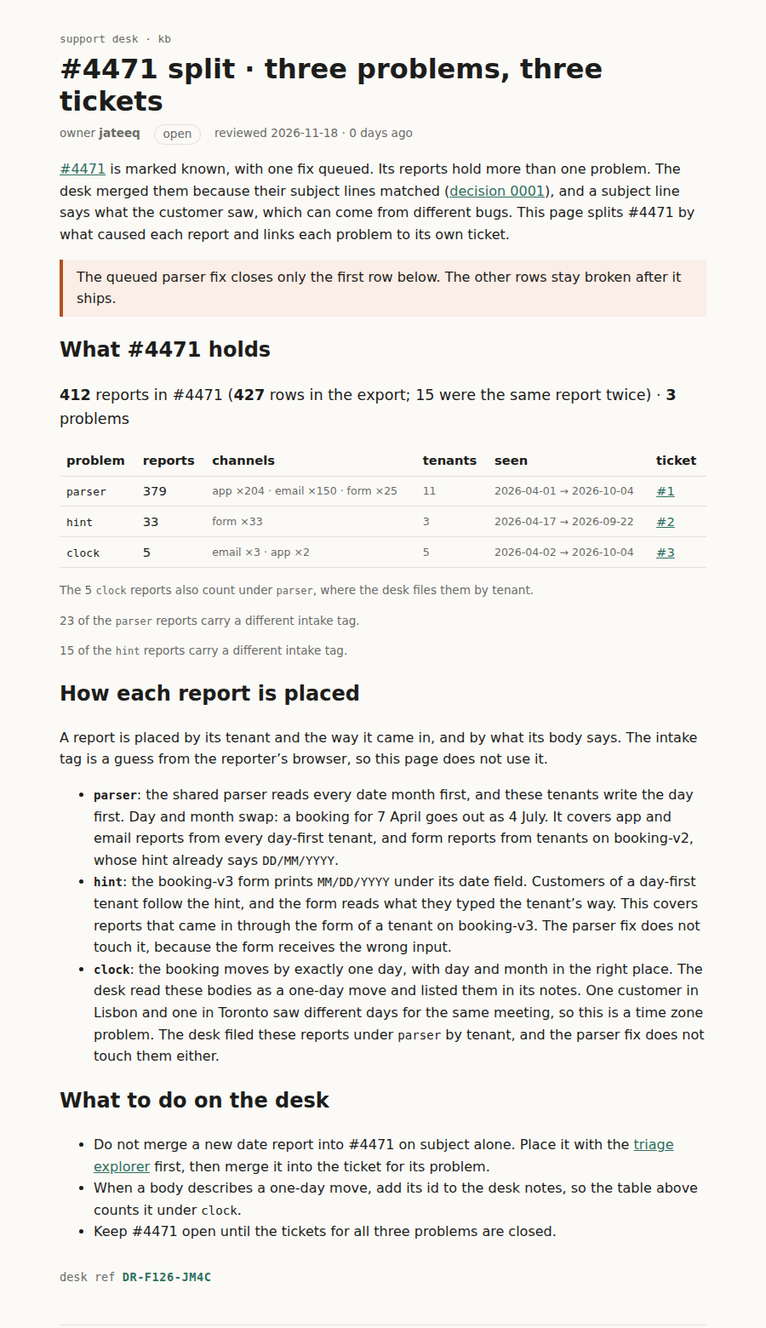
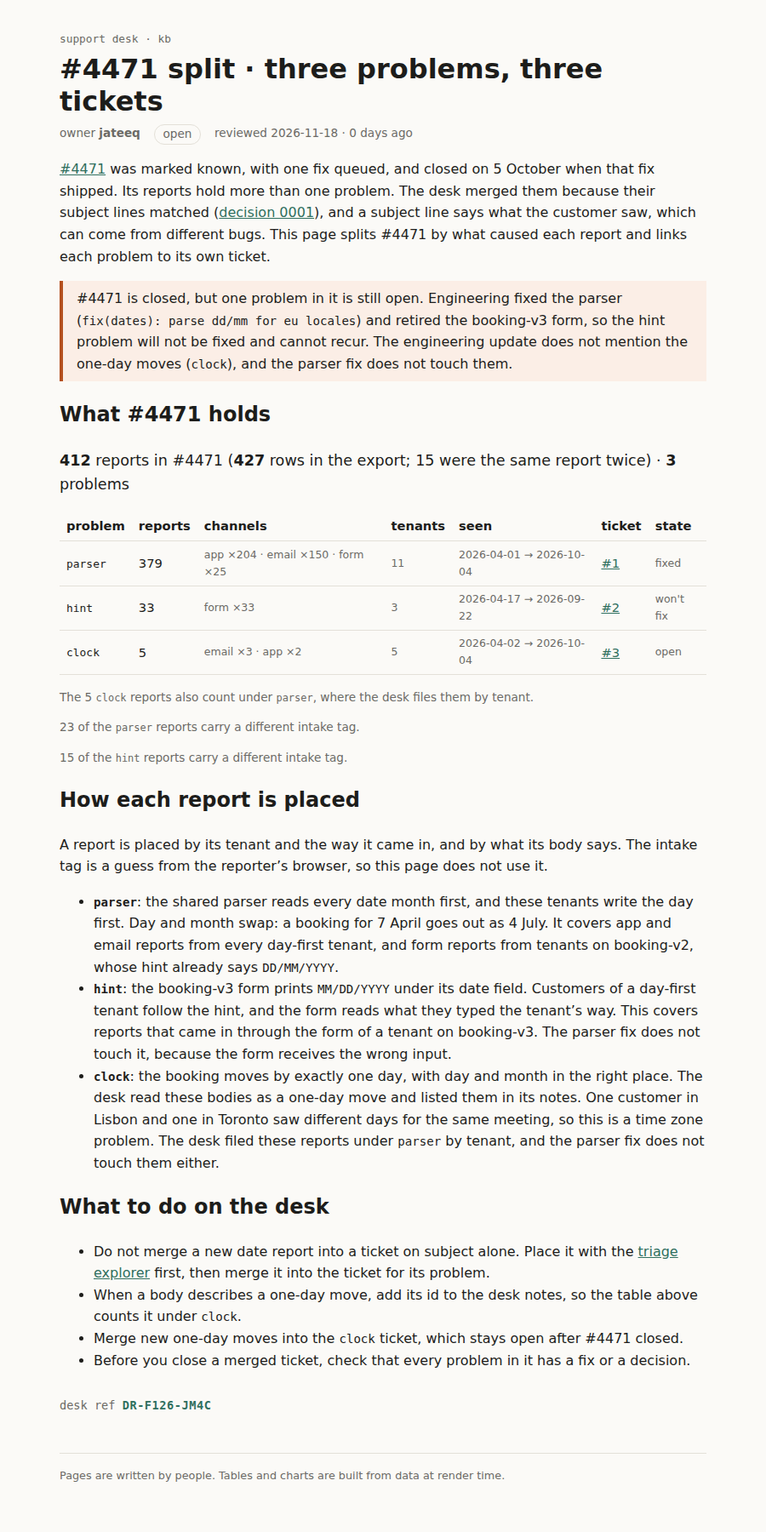
kb: record #4471 closure on the split page
Engineering closed #4471 on 05 Oct: parser fixed, booking-v3 retired
(hint won't fix). The page shows each ticket's state; clock (#3)
stays open because neither change touches one-day moves.

Changed region(s): [[0.0622, 0.0, 0.9333, 0.9846], [0.8711, 0.2154, 0.9022, 0.2462]]

diff --git a/build/kb/incidents/4471-split.html b/build/kb/incidents/4471-split.html
@@ -9,11 +9,11 @@
 		<link href="../../_app/immutable/chunks/D2uKd6CO.js" rel="modulepreload">
 		<link href="../../_app/immutable/chunks/DqobLIMO.js" rel="modulepreload">
 		<link href="../../_app/immutable/chunks/D3h3_HI9.js" rel="modulepreload">
-		<link href="../../_app/immutable/entry/app.BdO2tR1S.js" rel="modulepreload">
+		<link href="../../_app/immutable/entry/app.tLeF7Ukk.js" rel="modulepreload">
 		<link href="../../_app/immutable/nodes/0.C1T5FrNR.js" rel="modulepreload">
 		<link href="../../_app/immutable/chunks/DK3Fl9T5.js" rel="modulepreload">
-		<link href="../../_app/immutable/nodes/5.CoxZs1QO.js" rel="modulepreload">
-		<link href="../../_app/immutable/chunks/DiKSyrhr.js" rel="modulepreload">
+		<link href="../../_app/immutable/nodes/5.ntM49AF6.js" rel="modulepreload">
+		<link href="../../_app/immutable/chunks/B06xrp83.js" rel="modulepreload">
 		<link href="../../_app/immutable/chunks/lbOM6Kvd.js" rel="modulepreload">
 		<link href="../../_app/immutable/chunks/CVBzP17p.js" rel="modulepreload">
 		<link href="../../_app/immutable/chunks/WPahp0Ok.js" rel="modulepreload">
@@ -23,11 +23,14 @@
 		<link href="../../_app/immutable/assets/_page.-ZyW0LFx.css" rel="stylesheet">
   </head>
   <body data-sveltekit-preload-data="hover">
-    <div style="display: contents"><!--[--><!--[--><!--[0--><!--[--><!--[--><!--[-1--><!--[--><div class="kb svelte-e2jw2j"><header><a class="crumb svelte-e2jw2j" href="/kb">support desk · kb</a> <h1 class="svelte-e2jw2j">#4471 split · three problems, three tickets</h1> <p class="meta svelte-e2jw2j"><span>owner <b>jateeq</b></span> <span class="status open svelte-e2jw2j">open</span> <span class="svelte-e2jw2j">reviewed 2026-11-18 · 0 days ago</span></p></header> <!--[-1--><!--]--> <main><p><a href="/kb/incidents/4471">#4471</a> is marked known, with one fix queued. Its reports hold more than one
-problem. The desk merged them because their subject lines matched
+    <div style="display: contents"><!--[--><!--[--><!--[0--><!--[--><!--[--><!--[-1--><!--[--><div class="kb svelte-e2jw2j"><header><a class="crumb svelte-e2jw2j" href="/kb">support desk · kb</a> <h1 class="svelte-e2jw2j">#4471 split · three problems, three tickets</h1> <p class="meta svelte-e2jw2j"><span>owner <b>jateeq</b></span> <span class="status open svelte-e2jw2j">open</span> <span class="svelte-e2jw2j">reviewed 2026-11-18 · 0 days ago</span></p></header> <!--[-1--><!--]--> <main><p><a href="/kb/incidents/4471">#4471</a> was marked known, with one fix queued, and closed on 5 October when
+that fix shipped. Its reports hold more than one problem. The desk merged them because their subject lines matched
 (<a href="/kb/decisions/0001-dedupe-by-subject">decision 0001</a>), and a subject line says what the customer
 saw, which can come from different bugs. This page splits #4471 by what caused each report and
-links each problem to its own ticket.</p> <aside class="warn svelte-17bri61"><!---->The queued parser fix closes only the first row below. The other rows stay broken after it ships.<!----></aside><!----> <h2>What #4471 holds</h2> <p class="sum svelte-xskqqx"><strong>412</strong> reports in #4471 <!--[0-->(<strong>427</strong> rows in the export; 15 were the same report twice)<!--]--> · <strong>3</strong> problems</p> <table><thead><tr><th>problem</th><th>reports</th><th>channels</th><th>tenants</th><th>seen</th><th>ticket</th></tr></thead><tbody><!--[--><tr class="svelte-xskqqx"><td class="svelte-xskqqx"><code>parser</code></td><td class="svelte-xskqqx">379</td><td class="small svelte-xskqqx">app ×204 · email ×150 · form ×25</td><td class="small svelte-xskqqx" title="alder.physio, copper.studio, harbour.dental, kettle.books, lantern.row, long.table, morrow.tax, nine.lanterns, pale.harbour, ridge.clinic, stone.and.sons">11</td><td class="small svelte-xskqqx">2026-04-01 → 2026-10-04</td><td class="svelte-xskqqx"><!--[0--><a href="https://github.com/jateeq/support-kb-4471/issues/1">#1</a><!--]--></td></tr><tr class="svelte-xskqqx"><td class="svelte-xskqqx"><code>hint</code></td><td class="svelte-xskqqx">33</td><td class="small svelte-xskqqx">form ×33</td><td class="small svelte-xskqqx" title="alder.physio, copper.studio, pale.harbour">3</td><td class="small svelte-xskqqx">2026-04-17 → 2026-09-22</td><td class="svelte-xskqqx"><!--[0--><a href="https://github.com/jateeq/support-kb-4471/issues/2">#2</a><!--]--></td></tr><tr class="svelte-xskqqx"><td class="svelte-xskqqx"><code>clock</code></td><td class="svelte-xskqqx">5</td><td class="small svelte-xskqqx">email ×3 · app ×2</td><td class="small svelte-xskqqx" title="alder.physio, kettle.books, lantern.row, nine.lanterns, pale.harbour">5</td><td class="small svelte-xskqqx">2026-04-02 → 2026-10-04</td><td class="svelte-xskqqx"><!--[0--><a href="https://github.com/jateeq/support-kb-4471/issues/3">#3</a><!--]--></td></tr><!--]--></tbody></table> <!--[--><!--[--><!--]--><!--[--><!--]--><!--[--><p class="note svelte-xskqqx">The 5 <code>clock</code> reports also count under <code>parser</code>, where the desk files them by tenant.</p><!--]--><!--]--> <!--[--><!--[0--><p class="note svelte-xskqqx">23 of the <code>parser</code> reports carry a different intake tag.</p><!--]--><!--[0--><p class="note svelte-xskqqx">15 of the <code>hint</code> reports carry a different intake tag.</p><!--]--><!--[-1--><!--]--><!--]--><!----> <h2>How each report is placed</h2> <p>A report is placed by its tenant and the way it came in, and by what its body says. The intake
+links each problem to its own ticket.</p> <aside class="warn svelte-17bri61"><!---->#4471 is closed, but one problem in it is still open. Engineering fixed the parser
+(<code>fix(dates): parse dd/mm for eu locales</code>) and retired the booking-v3 form, so the hint problem
+will not be fixed and cannot recur. The engineering update does not mention the one-day moves (<code>clock</code>), and the
+parser fix does not touch them.<!----></aside><!----> <h2>What #4471 holds</h2> <p class="sum svelte-xskqqx"><strong>412</strong> reports in #4471 <!--[0-->(<strong>427</strong> rows in the export; 15 were the same report twice)<!--]--> · <strong>3</strong> problems</p> <table><thead><tr><th>problem</th><th>reports</th><th>channels</th><th>tenants</th><th>seen</th><th>ticket</th><th>state</th></tr></thead><tbody><!--[--><tr class="svelte-xskqqx"><td class="svelte-xskqqx"><code>parser</code></td><td class="svelte-xskqqx">379</td><td class="small svelte-xskqqx">app ×204 · email ×150 · form ×25</td><td class="small svelte-xskqqx" title="alder.physio, copper.studio, harbour.dental, kettle.books, lantern.row, long.table, morrow.tax, nine.lanterns, pale.harbour, ridge.clinic, stone.and.sons">11</td><td class="small svelte-xskqqx">2026-04-01 → 2026-10-04</td><td class="svelte-xskqqx"><!--[0--><a href="https://github.com/jateeq/support-kb-4471/issues/1">#1</a><!--]--></td><td class="small svelte-xskqqx">fixed</td></tr><tr class="svelte-xskqqx"><td class="svelte-xskqqx"><code>hint</code></td><td class="svelte-xskqqx">33</td><td class="small svelte-xskqqx">form ×33</td><td class="small svelte-xskqqx" title="alder.physio, copper.studio, pale.harbour">3</td><td class="small svelte-xskqqx">2026-04-17 → 2026-09-22</td><td class="svelte-xskqqx"><!--[0--><a href="https://github.com/jateeq/support-kb-4471/issues/2">#2</a><!--]--></td><td class="small svelte-xskqqx">won't fix</td></tr><tr class="svelte-xskqqx"><td class="svelte-xskqqx"><code>clock</code></td><td class="svelte-xskqqx">5</td><td class="small svelte-xskqqx">email ×3 · app ×2</td><td class="small svelte-xskqqx" title="alder.physio, kettle.books, lantern.row, nine.lanterns, pale.harbour">5</td><td class="small svelte-xskqqx">2026-04-02 → 2026-10-04</td><td class="svelte-xskqqx"><!--[0--><a href="https://github.com/jateeq/support-kb-4471/issues/3">#3</a><!--]--></td><td class="small svelte-xskqqx">open</td></tr><!--]--></tbody></table> <!--[--><!--[--><!--]--><!--[--><!--]--><!--[--><p class="note svelte-xskqqx">The 5 <code>clock</code> reports also count under <code>parser</code>, where the desk files them by tenant.</p><!--]--><!--]--> <!--[--><!--[0--><p class="note svelte-xskqqx">23 of the <code>parser</code> reports carry a different intake tag.</p><!--]--><!--[0--><p class="note svelte-xskqqx">15 of the <code>hint</code> reports carry a different intake tag.</p><!--]--><!--[-1--><!--]--><!--]--><!----> <h2>How each report is placed</h2> <p>A report is placed by its tenant and the way it came in, and by what its body says. The intake
 tag is a guess from the reporter’s browser, so this page does not use it.</p> <ul><li><strong><code>parser</code></strong>: the shared parser reads every date month first, and these tenants write the day
 first. Day and month swap: a booking for 7 April goes out as 4 July. It covers app and email
 reports from every day-first tenant, and form reports from tenants on booking-v2, whose hint
@@ -37,21 +40,21 @@ covers reports that came in through the form of a tenant on booking-v3. The pars
 touch it, because the form receives the wrong input.</li> <li><strong><code>clock</code></strong>: the booking moves by exactly one day, with day and month in the right place. The
 desk read these bodies as a one-day move and listed them in its notes. One customer in Lisbon
 and one in Toronto saw different days for the same meeting, so this is a time zone problem. The
-desk filed these reports under <code>parser</code> by tenant, and the parser fix does not touch them either.</li></ul> <h2>What to do on the desk</h2> <ul><li>Do not merge a new date report into #4471 on subject alone. Place it with the <a href="/kb/triage/dedupe">triage explorer</a> first, then merge it into the ticket for its problem.</li> <li>When a body describes a one-day move, add its id to the desk notes, so the table above counts it
-under <code>clock</code>.</li> <li>Keep #4471 open until the tickets for all three problems are closed.</li></ul> <!--[0--><p class="stamp svelte-1280m42">desk ref <b class="svelte-1280m42">DR-F126-JM4C</b></p><!--]--><!----><!----></main> <footer class="svelte-e2jw2j">Pages are written by people. Tables and charts are built from data at render time.</footer></div><!--]--><!--]--><!--]--><!----><!--]--><!--]--><!--]--><!----> <!--[-1--><!--]--><!--]-->
+desk filed these reports under <code>parser</code> by tenant, and the parser fix does not touch them either.</li></ul> <h2>What to do on the desk</h2> <ul><li>Do not merge a new date report into a ticket on subject alone. Place it with the <a href="/kb/triage/dedupe">triage explorer</a> first, then merge it into the ticket for its problem.</li> <li>When a body describes a one-day move, add its id to the desk notes, so the table above counts it
+under <code>clock</code>.</li> <li>Merge new one-day moves into the <code>clock</code> ticket, which stays open after #4471 closed.</li> <li>Before you close a merged ticket, check that every problem in it has a fix or a decision.</li></ul> <!--[0--><p class="stamp svelte-1280m42">desk ref <b class="svelte-1280m42">DR-F126-JM4C</b></p><!--]--><!----><!----></main> <footer class="svelte-e2jw2j">Pages are written by people. Tables and charts are built from data at render time.</footer></div><!--]--><!--]--><!--]--><!----><!--]--><!--]--><!--]--><!----> <!--[-1--><!--]--><!--]-->
 			
 			<script>
 				{
-					__sveltekit_18xwxmj = {
+					__sveltekit_j6ayf0 = {
 						base: new URL("../..", location).pathname.slice(0, -1),
-						version: "1795033471336"
+						version: "1795033544273"
 					};
 
 					const element = document.currentScript.parentElement;
 
 					import("../../_app/immutable/entry/start.IGbkpGjp.js").then(async (kit) => {
-						kit.init(__sveltekit_18xwxmj);
-						const app = await import("../../_app/immutable/entry/app.BdO2tR1S.js");
+						kit.init(__sveltekit_j6ayf0);
+						const app = await import("../../_app/immutable/entry/app.tLeF7Ukk.js");
 						kit.start(app, element, {
 							node_ids: [0, 5],
 							data: [null,null],

diff --git a/rendered/4471-split.html b/rendered/4471-split.html
@@ -9,11 +9,11 @@
 		<link href="../../_app/immutable/chunks/D2uKd6CO.js" rel="modulepreload">
 		<link href="../../_app/immutable/chunks/DqobLIMO.js" rel="modulepreload">
 		<link href="../../_app/immutable/chunks/D3h3_HI9.js" rel="modulepreload">
-		<link href="../../_app/immutable/entry/app.BdO2tR1S.js" rel="modulepreload">
+		<link href="../../_app/immutable/entry/app.tLeF7Ukk.js" rel="modulepreload">
 		<link href="../../_app/immutable/nodes/0.C1T5FrNR.js" rel="modulepreload">
 		<link href="../../_app/immutable/chunks/DK3Fl9T5.js" rel="modulepreload">
-		<link href="../../_app/immutable/nodes/5.CoxZs1QO.js" rel="modulepreload">
-		<link href="../../_app/immutable/chunks/DiKSyrhr.js" rel="modulepreload">
+		<link href="../../_app/immutable/nodes/5.ntM49AF6.js" rel="modulepreload">
+		<link href="../../_app/immutable/chunks/B06xrp83.js" rel="modulepreload">
 		<link href="../../_app/immutable/chunks/lbOM6Kvd.js" rel="modulepreload">
 		<link href="../../_app/immutable/chunks/CVBzP17p.js" rel="modulepreload">
 		<link href="../../_app/immutable/chunks/WPahp0Ok.js" rel="modulepreload">
@@ -23,11 +23,14 @@
 		<link href="../../_app/immutable/assets/_page.-ZyW0LFx.css" rel="stylesheet">
   </head>
   <body data-sveltekit-preload-data="hover">
-    <div style="display: contents"><!--[--><!--[--><!--[0--><!--[--><!--[--><!--[-1--><!--[--><div class="kb svelte-e2jw2j"><header><a class="crumb svelte-e2jw2j" href="/kb">support desk · kb</a> <h1 class="svelte-e2jw2j">#4471 split · three problems, three tickets</h1> <p class="meta svelte-e2jw2j"><span>owner <b>jateeq</b></span> <span class="status open svelte-e2jw2j">open</span> <span class="svelte-e2jw2j">reviewed 2026-11-18 · 0 days ago</span></p></header> <!--[-1--><!--]--> <main><p><a href="/kb/incidents/4471">#4471</a> is marked known, with one fix queued. Its reports hold more than one
-problem. The desk merged them because their subject lines matched
+    <div style="display: contents"><!--[--><!--[--><!--[0--><!--[--><!--[--><!--[-1--><!--[--><div class="kb svelte-e2jw2j"><header><a class="crumb svelte-e2jw2j" href="/kb">support desk · kb</a> <h1 class="svelte-e2jw2j">#4471 split · three problems, three tickets</h1> <p class="meta svelte-e2jw2j"><span>owner <b>jateeq</b></span> <span class="status open svelte-e2jw2j">open</span> <span class="svelte-e2jw2j">reviewed 2026-11-18 · 0 days ago</span></p></header> <!--[-1--><!--]--> <main><p><a href="/kb/incidents/4471">#4471</a> was marked known, with one fix queued, and closed on 5 October when
+that fix shipped. Its reports hold more than one problem. The desk merged them because their subject lines matched
 (<a href="/kb/decisions/0001-dedupe-by-subject">decision 0001</a>), and a subject line says what the customer
 saw, which can come from different bugs. This page splits #4471 by what caused each report and
-links each problem to its own ticket.</p> <aside class="warn svelte-17bri61"><!---->The queued parser fix closes only the first row below. The other rows stay broken after it ships.<!----></aside><!----> <h2>What #4471 holds</h2> <p class="sum svelte-xskqqx"><strong>412</strong> reports in #4471 <!--[0-->(<strong>427</strong> rows in the export; 15 were the same report twice)<!--]--> · <strong>3</strong> problems</p> <table><thead><tr><th>problem</th><th>reports</th><th>channels</th><th>tenants</th><th>seen</th><th>ticket</th></tr></thead><tbody><!--[--><tr class="svelte-xskqqx"><td class="svelte-xskqqx"><code>parser</code></td><td class="svelte-xskqqx">379</td><td class="small svelte-xskqqx">app ×204 · email ×150 · form ×25</td><td class="small svelte-xskqqx" title="alder.physio, copper.studio, harbour.dental, kettle.books, lantern.row, long.table, morrow.tax, nine.lanterns, pale.harbour, ridge.clinic, stone.and.sons">11</td><td class="small svelte-xskqqx">2026-04-01 → 2026-10-04</td><td class="svelte-xskqqx"><!--[0--><a href="https://github.com/jateeq/support-kb-4471/issues/1">#1</a><!--]--></td></tr><tr class="svelte-xskqqx"><td class="svelte-xskqqx"><code>hint</code></td><td class="svelte-xskqqx">33</td><td class="small svelte-xskqqx">form ×33</td><td class="small svelte-xskqqx" title="alder.physio, copper.studio, pale.harbour">3</td><td class="small svelte-xskqqx">2026-04-17 → 2026-09-22</td><td class="svelte-xskqqx"><!--[0--><a href="https://github.com/jateeq/support-kb-4471/issues/2">#2</a><!--]--></td></tr><tr class="svelte-xskqqx"><td class="svelte-xskqqx"><code>clock</code></td><td class="svelte-xskqqx">5</td><td class="small svelte-xskqqx">email ×3 · app ×2</td><td class="small svelte-xskqqx" title="alder.physio, kettle.books, lantern.row, nine.lanterns, pale.harbour">5</td><td class="small svelte-xskqqx">2026-04-02 → 2026-10-04</td><td class="svelte-xskqqx"><!--[0--><a href="https://github.com/jateeq/support-kb-4471/issues/3">#3</a><!--]--></td></tr><!--]--></tbody></table> <!--[--><!--[--><!--]--><!--[--><!--]--><!--[--><p class="note svelte-xskqqx">The 5 <code>clock</code> reports also count under <code>parser</code>, where the desk files them by tenant.</p><!--]--><!--]--> <!--[--><!--[0--><p class="note svelte-xskqqx">23 of the <code>parser</code> reports carry a different intake tag.</p><!--]--><!--[0--><p class="note svelte-xskqqx">15 of the <code>hint</code> reports carry a different intake tag.</p><!--]--><!--[-1--><!--]--><!--]--><!----> <h2>How each report is placed</h2> <p>A report is placed by its tenant and the way it came in, and by what its body says. The intake
+links each problem to its own ticket.</p> <aside class="warn svelte-17bri61"><!---->#4471 is closed, but one problem in it is still open. Engineering fixed the parser
+(<code>fix(dates): parse dd/mm for eu locales</code>) and retired the booking-v3 form, so the hint problem
+will not be fixed and cannot recur. The engineering update does not mention the one-day moves (<code>clock</code>), and the
+parser fix does not touch them.<!----></aside><!----> <h2>What #4471 holds</h2> <p class="sum svelte-xskqqx"><strong>412</strong> reports in #4471 <!--[0-->(<strong>427</strong> rows in the export; 15 were the same report twice)<!--]--> · <strong>3</strong> problems</p> <table><thead><tr><th>problem</th><th>reports</th><th>channels</th><th>tenants</th><th>seen</th><th>ticket</th><th>state</th></tr></thead><tbody><!--[--><tr class="svelte-xskqqx"><td class="svelte-xskqqx"><code>parser</code></td><td class="svelte-xskqqx">379</td><td class="small svelte-xskqqx">app ×204 · email ×150 · form ×25</td><td class="small svelte-xskqqx" title="alder.physio, copper.studio, harbour.dental, kettle.books, lantern.row, long.table, morrow.tax, nine.lanterns, pale.harbour, ridge.clinic, stone.and.sons">11</td><td class="small svelte-xskqqx">2026-04-01 → 2026-10-04</td><td class="svelte-xskqqx"><!--[0--><a href="https://github.com/jateeq/support-kb-4471/issues/1">#1</a><!--]--></td><td class="small svelte-xskqqx">fixed</td></tr><tr class="svelte-xskqqx"><td class="svelte-xskqqx"><code>hint</code></td><td class="svelte-xskqqx">33</td><td class="small svelte-xskqqx">form ×33</td><td class="small svelte-xskqqx" title="alder.physio, copper.studio, pale.harbour">3</td><td class="small svelte-xskqqx">2026-04-17 → 2026-09-22</td><td class="svelte-xskqqx"><!--[0--><a href="https://github.com/jateeq/support-kb-4471/issues/2">#2</a><!--]--></td><td class="small svelte-xskqqx">won't fix</td></tr><tr class="svelte-xskqqx"><td class="svelte-xskqqx"><code>clock</code></td><td class="svelte-xskqqx">5</td><td class="small svelte-xskqqx">email ×3 · app ×2</td><td class="small svelte-xskqqx" title="alder.physio, kettle.books, lantern.row, nine.lanterns, pale.harbour">5</td><td class="small svelte-xskqqx">2026-04-02 → 2026-10-04</td><td class="svelte-xskqqx"><!--[0--><a href="https://github.com/jateeq/support-kb-4471/issues/3">#3</a><!--]--></td><td class="small svelte-xskqqx">open</td></tr><!--]--></tbody></table> <!--[--><!--[--><!--]--><!--[--><!--]--><!--[--><p class="note svelte-xskqqx">The 5 <code>clock</code> reports also count under <code>parser</code>, where the desk files them by tenant.</p><!--]--><!--]--> <!--[--><!--[0--><p class="note svelte-xskqqx">23 of the <code>parser</code> reports carry a different intake tag.</p><!--]--><!--[0--><p class="note svelte-xskqqx">15 of the <code>hint</code> reports carry a different intake tag.</p><!--]--><!--[-1--><!--]--><!--]--><!----> <h2>How each report is placed</h2> <p>A report is placed by its tenant and the way it came in, and by what its body says. The intake
 tag is a guess from the reporter’s browser, so this page does not use it.</p> <ul><li><strong><code>parser</code></strong>: the shared parser reads every date month first, and these tenants write the day
 first. Day and month swap: a booking for 7 April goes out as 4 July. It covers app and email
 reports from every day-first tenant, and form reports from tenants on booking-v2, whose hint
@@ -37,21 +40,21 @@ covers reports that came in through the form of a tenant on booking-v3. The pars
 touch it, because the form receives the wrong input.</li> <li><strong><code>clock</code></strong>: the booking moves by exactly one day, with day and month in the right place. The
 desk read these bodies as a one-day move and listed them in its notes. One customer in Lisbon
 and one in Toronto saw different days for the same meeting, so this is a time zone problem. The
-desk filed these reports under <code>parser</code> by tenant, and the parser fix does not touch them either.</li></ul> <h2>What to do on the desk</h2> <ul><li>Do not merge a new date report into #4471 on subject alone. Place it with the <a href="/kb/triage/dedupe">triage explorer</a> first, then merge it into the ticket for its problem.</li> <li>When a body describes a one-day move, add its id to the desk notes, so the table above counts it
-under <code>clock</code>.</li> <li>Keep #4471 open until the tickets for all three problems are closed.</li></ul> <!--[0--><p class="stamp svelte-1280m42">desk ref <b class="svelte-1280m42">DR-F126-JM4C</b></p><!--]--><!----><!----></main> <footer class="svelte-e2jw2j">Pages are written by people. Tables and charts are built from data at render time.</footer></div><!--]--><!--]--><!--]--><!----><!--]--><!--]--><!--]--><!----> <!--[-1--><!--]--><!--]-->
+desk filed these reports under <code>parser</code> by tenant, and the parser fix does not touch them either.</li></ul> <h2>What to do on the desk</h2> <ul><li>Do not merge a new date report into a ticket on subject alone. Place it with the <a href="/kb/triage/dedupe">triage explorer</a> first, then merge it into the ticket for its problem.</li> <li>When a body describes a one-day move, add its id to the desk notes, so the table above counts it
+under <code>clock</code>.</li> <li>Merge new one-day moves into the <code>clock</code> ticket, which stays open after #4471 closed.</li> <li>Before you close a merged ticket, check that every problem in it has a fix or a decision.</li></ul> <!--[0--><p class="stamp svelte-1280m42">desk ref <b class="svelte-1280m42">DR-F126-JM4C</b></p><!--]--><!----><!----></main> <footer class="svelte-e2jw2j">Pages are written by people. Tables and charts are built from data at render time.</footer></div><!--]--><!--]--><!--]--><!----><!--]--><!--]--><!--]--><!----> <!--[-1--><!--]--><!--]-->
 			
 			<script>
 				{
-					__sveltekit_18xwxmj = {
+					__sveltekit_j6ayf0 = {
 						base: new URL("../..", location).pathname.slice(0, -1),
-						version: "1795033471336"
+						version: "1795033544273"
 					};
 
 					const element = document.currentScript.parentElement;
 
 					import("../../_app/immutable/entry/start.IGbkpGjp.js").then(async (kit) => {
-						kit.init(__sveltekit_18xwxmj);
-						const app = await import("../../_app/immutable/entry/app.BdO2tR1S.js");
+						kit.init(__sveltekit_j6ayf0);
+						const app = await import("../../_app/immutable/entry/app.tLeF7Ukk.js");
 						kit.start(app, element, {
 							node_ids: [0, 5],
 							data: [null,null],

diff --git a/build/_app/immutable/chunks/B06xrp83.js b/build/_app/immutable/chunks/B06xrp83.js
@@ -1,0 +1,19 @@
+import{t as e}from"./DK3Fl9T5.js";import{E as t,F as n,H as r,I as i,K as a,L as o,N as s,O as c,R as l,S as u,T as d,U as f,W as p,Y as m,_ as h,c as g,d as _,h as v,k as y,q as b,r as x,t as S,w as C}from"./DqobLIMO.js";import{t as w}from"./lbOM6Kvd.js";import{n as T,t as E}from"./CVBzP17p.js";import{i as D,l as O,r as k,t as A}from"./WPahp0Ok.js";var j=[`parser`,`hint`,`clock`];function M(e,t,n,r){let i=e.filter(e=>e.mergedInto===r),a=O(i),o=e=>D(e,t(e))??`unplaced`,s=new Map,c=(e,t)=>s.set(e,[...s.get(e)??[],t]);for(let e of a)c(o(e),e),n.includes(e.id)&&c(`clock`,e);let l=e=>e===`unplaced`?j.length:j.indexOf(e),u=[...s.entries()].map(([e,t])=>{let n=t.map(e=>e.receivedAt.slice(0,10)).sort();return{problem:e,reports:t,tenants:[...new Set(t.map(e=>e.tenant))].sort(),channels:t.reduce((e,t)=>({...e,[t.channel]:(e[t.channel]??0)+1}),{}),firstSeen:n[0],lastSeen:n[n.length-1],alsoIn:e===`clock`?t.reduce((e,t)=>({...e,[o(t)]:(e[o(t)]??0)+1}),{}):{}}}).sort((e,t)=>l(e.problem)-l(t.problem));return{rows:i.length,merged:a,groups:u}}function N(e){return e.problem===`clock`||e.problem===`unplaced`?0:e.reports.filter(t=>t.meta.intakeTag!==e.problem).length}var P=t(`(<strong> </strong> `,1),F=t(`<a> </a>`),I=t(`<tr><td class="svelte-xskqqx"><code> </code></td><td class="svelte-xskqqx"> </td><td class="small svelte-xskqqx"> </td><td class="small svelte-xskqqx"> </td><td class="small svelte-xskqqx"> </td><td class="svelte-xskqqx"><!></td><td class="small svelte-xskqqx"> </td></tr>`),L=t(`<p class="note svelte-xskqqx"> <code> </code> reports also count under <code> </code>, where the desk files them by tenant.</p>`),R=t(`<p class="note svelte-xskqqx"> <code> </code> reports carry a different intake tag.</p>`),z=t(`<p class="sum svelte-xskqqx"><strong> </strong> <!> · <strong> </strong> </p> <table><thead><tr><th>problem</th><th>reports</th><th>channels</th><th>tenants</th><th>seen</th><th>ticket</th><th>state</th></tr></thead><tbody></tbody></table> <!> <!>`,1);function B(e,t){p(t,!0);let x=r(()=>M(T,k,E.oneDayMove,t.ticket)),S=r(()=>y(x).rows-y(x).merged.length),w=r(()=>y(x).groups.filter(e=>e.problem!==`unplaced`)),D=e=>Object.entries(e).sort((e,t)=>t[1]-e[1]).map(([e,t])=>`${e} ×${t}`).join(` · `);var O=z(),A=i(O),j=n(A),B=o(j,!0),V=l(j),H=l(V),U=e=>{var t=P(),n=l(i(t)),r=o(n,!0),a=l(n);s(()=>{u(r,y(x).rows),u(a,` rows in the export; ${y(S)??``} were the same report twice)`)}),C(e,t)};h(H,e=>{y(S)&&e(U)});var W=l(H,2),G=o(W,!0),K=l(W);b(A);var q=l(A,2),J=l(n(q));v(J,21,()=>y(x).groups,e=>e.problem,(e,i)=>{let a=r(()=>y(i).problem===`unplaced`?void 0:t.issues[y(i).problem]);var d=I();let f;var p=n(d),m=n(p),v=o(m,!0);b(p);var x=l(p),S=o(x,!0),w=l(x),T=o(w,!0),E=l(w),O=o(E,!0),k=l(E),A=o(k),j=l(k),M=n(j),N=e=>{var t=F(),n=o(t,!0);s(()=>{g(t,`href`,y(a).href),u(n,y(a).label)}),C(e,t)},P=e=>{var t=c(`no ticket yet`);C(e,t)};h(M,e=>{y(a)?e(N):e(P,-1)}),b(j);var L=l(j),R=o(L,!0);b(d),s((e,t)=>{f=_(d,1,`svelte-xskqqx`,null,f,{open:!y(a)}),u(v,y(i).problem),u(S,y(i).reports.length),u(T,e),g(E,`title`,t),u(O,y(i).tenants.length),u(A,`${y(i).firstSeen??``} → ${y(i).lastSeen??``}`),u(R,y(a)?.state??``)},[()=>D(y(i).channels),()=>y(i).tenants.join(`, `)]),C(e,d)}),b(J),b(q);var Y=l(q,2);v(Y,17,()=>y(x).groups,e=>e.problem,(e,t)=>{var c=d(),f=i(c);v(f,17,()=>Object.entries(y(t).alsoIn),([e,t])=>e,(e,i)=>{var c=r(()=>m(y(i),2));let d=()=>y(c)[0],f=()=>y(c)[1];var p=L(),h=n(p),g=l(h),_=o(g,!0),v=l(g,2),x=o(v,!0);a(),b(p),s(()=>{u(h,`The ${f()??``} `),u(_,y(t).problem),u(x,d())}),C(e,p)}),C(e,c)});var X=l(Y,2);v(X,17,()=>y(w),e=>e.problem,(e,t)=>{let c=r(()=>N(y(t)));var f=d(),p=i(f),m=e=>{var r=R(),i=n(r),d=l(i),f=o(d,!0);a(),b(r),s(()=>{u(i,`${y(c)??``} of the `),u(f,y(t).problem)}),C(e,r)};h(p,e=>{y(c)&&e(m)}),C(e,f)}),s(()=>{u(B,y(x).merged.length),u(V,` reports in #${t.ticket??``} `),u(G,y(w).length),u(K,` ${y(w).length===1?`problem`:`problems`}`)}),C(e,O),f()}var V=`0123456789ABCDEFGHJKMNPQRSTVWXYZ`;function H(e,t){let n=t>>>0;for(let t=0;t<e.length;t++)n^=e.charCodeAt(t),n=Math.imul(n,16777619)>>>0;return n}function U(e){let t=e.trim(),n=H(t,2166136261),r=H(t,2654435769),i=BigInt(n)<<8n|BigInt(r&255),a=``;for(let e=0;e<8;e++)a=V[Number(i&31n)]+a,i>>=5n;return`DR-${a.slice(0,4)}-${a.slice(4)}`}var W=t(`<p class="stamp svelte-1280m42">desk ref <b class="svelte-1280m42"> </b></p>`),G=t(`<p class="stamp missing svelte-1280m42">no desk ref: this page isn't signed (no <code>signature</code> in its frontmatter)</p>`);function K(e,t){p(t,!0);let a=r(()=>t.signature?U(t.signature):null);var c=d(),m=i(c),g=e=>{var t=W(),r=l(n(t)),i=o(r,!0);b(t),s(()=>u(i,y(a))),C(e,t)},_=e=>{var t=G();C(e,t)};h(m,e=>{y(a)?e(g):e(_,-1)}),C(e,c),f()}var q=e({default:()=>$,metadata:()=>J}),J={layout:`runbook`,title:`#4471 split · three problems, three tickets`,owner:`jateeq`,status:`open`,reviewed:`2026-11-18T00:00:00.000Z`,signature:`v1.eyJzdG9yeSI6Im9mZiIsInN1YiI6IjU3ODIiLCJhdWQiOiJjaGFsbGVuZ2U6d2hhdC1pdC1zaG93cyIsImlhdCI6MTc5NTAzMTI0OSwiZXhwIjoxNzk1MTE3NjQ5fQ.j5AFVjDxRByqDCaDijtfnJ4si5J3GuzdPm9YP9ZMnJY`},{layout:Y,title:X,owner:ee,status:te,reviewed:ne,signature:Z}=J,Q=t(`#4471 is closed, but one problem in it is still open. Engineering fixed the parser
+(<code>fix(dates): parse dd/mm for eu locales</code>) and retired the booking-v3 form, so the hint problem
+will not be fixed and cannot recur. The engineering update does not mention the one-day moves (<code>clock</code>), and the
+parser fix does not touch them.`,1),re=t(`<p><a href="/kb/incidents/4471">#4471</a> was marked known, with one fix queued, and closed on 5 October when
+that fix shipped. Its reports hold more than one problem. The desk merged them because their subject lines matched
+(<a href="/kb/decisions/0001-dedupe-by-subject">decision 0001</a>), and a subject line says what the customer
+saw, which can come from different bugs. This page splits #4471 by what caused each report and
+links each problem to its own ticket.</p> <!> <h2>What #4471 holds</h2> <!> <h2>How each report is placed</h2> <p>A report is placed by its tenant and the way it came in, and by what its body says. The intake
+tag is a guess from the reporter’s browser, so this page does not use it.</p> <ul><li><strong><code>parser</code></strong>: the shared parser reads every date month first, and these tenants write the day
+first. Day and month swap: a booking for 7 April goes out as 4 July. It covers app and email
+reports from every day-first tenant, and form reports from tenants on booking-v2, whose hint
+already says <code>DD/MM/YYYY</code>.</li> <li><strong><code>hint</code></strong>: the booking-v3 form prints <code>MM/DD/YYYY</code> under its date field. Customers of a
+day-first tenant follow the hint, and the form reads what they typed the tenant’s way. This
+covers reports that came in through the form of a tenant on booking-v3. The parser fix does not
+touch it, because the form receives the wrong input.</li> <li><strong><code>clock</code></strong>: the booking moves by exactly one day, with day and month in the right place. The
+desk read these bodies as a one-day move and listed them in its notes. One customer in Lisbon
+and one in Toronto saw different days for the same meeting, so this is a time zone problem. The
+desk filed these reports under <code>parser</code> by tenant, and the parser fix does not touch them either.</li></ul> <h2>What to do on the desk</h2> <ul><li>Do not merge a new date report into a ticket on subject alone. Place it with the <a href="/kb/triage/dedupe">triage explorer</a> first, then merge it into the ticket for its problem.</li> <li>When a body describes a one-day move, add its id to the desk notes, so the table above counts it
+under <code>clock</code>.</li> <li>Merge new one-day moves into the <code>clock</code> ticket, which stays open after #4471 closed.</li> <li>Before you close a merged ticket, check that every problem in it has a fix or a decision.</li></ul> <!>`,1);function $(e,t){let n=S(t,[`children`,`$$slots`,`$$events`,`$$legacy`]),r=`https://github.com/jateeq/support-kb-4471/issues`,o={parser:{label:`#1`,href:`${r}/1`,state:`fixed`},hint:{label:`#2`,href:`${r}/2`,state:`won't fix`},clock:{label:`#3`,href:`${r}/3`,state:`open`}};w(e,x(()=>n,()=>J,{children:(e,t)=>{var n=re(),r=l(i(n),2);A(r,{kind:`warn`,children:(e,t)=>{a();var n=Q();a(4),C(e,n)},$$slots:{default:!0}});var s=l(r,4);B(s,{ticket:4471,get issues(){return o}}),K(l(s,12),{get signature(){return Z}}),C(e,n)},$$slots:{default:!0}}))}export{$ as n,q as t};

diff --git a/build/_app/immutable/nodes/2.DzoYt4Wm.js b/build/_app/immutable/nodes/2.DzoYt4Wm.js
@@ -1,0 +1,2 @@
+import{E as e,F as t,I as n,K as r,L as i,N as a,R as o,S as s,U as c,W as l,c as u,d,h as f,i as p,k as m,q as h,r as g,t as _,w as v}from"../chunks/DqobLIMO.js";import{n as y,r as b,t as x}from"../chunks/lbOM6Kvd.js";import{t as S}from"../chunks/BcbpF9Wm.js";import{t as C}from"../chunks/CMROCL73.js";import{t as w}from"../chunks/B06xrp83.js";import{t as T}from"../chunks/8jJrl_71.js";var E=e(`<tr><td><a> </a></td><td> </td><td> </td><td> </td></tr>`),D=e(`<table><thead><tr><th>page</th><th>owner</th><th>status</th><th>reviewed</th></tr></thead><tbody></tbody></table>`);function O(e,n){l(n,!1);let r=Object.entries(Object.assign({"/src/routes/kb/decisions/0001-dedupe-by-subject/+page.svx":S,"/src/routes/kb/incidents/4471/+page.svx":C,"/src/routes/kb/incidents/4471-split/+page.svx":w,"/src/routes/kb/triage/dedupe/+page.svx":T})).map(([e,t])=>({href:e.replace(`/src/routes`,``).replace(`/+page.svx`,``),...t.metadata})).sort((e,t)=>e.href.localeCompare(t.href));p();var g=D(),_=o(t(g));f(_,5,()=>r,e=>e.href,(e,n)=>{var r=E(),c=t(r),l=t(c),f=i(l,!0);h(c);var p=o(c),g=i(p,!0),_=o(p),x=i(_,!0),S=o(_);let C;var w=i(S,!0);h(r),a((e,t)=>{u(l,`href`,m(n).href),s(f,m(n).title),s(g,m(n).owner),s(x,m(n).status),C=d(S,1,`svelte-tbc1ha`,null,C,{stale:e}),s(w,t)},[()=>y(m(n).reviewed)>180,()=>b(m(n).reviewed)]),v(e,r)}),h(_),h(g),v(e,g),c()}var k={layout:`runbook`,title:`Support knowledge base`,owner:`support desk`,status:`living`,reviewed:`2026-09-28T00:00:00.000Z`},{layout:A,title:j,owner:M,status:N,reviewed:P}=k,F=e(`<p>What the support desk knows, kept next to the code that knows it. One desk, every product: <code>sched-prod</code> (calendar invites for about 300k people) and the rest. When something breaks, the reports land here first.</p> <p>Start with <a href="/kb/triage/dedupe">triage</a> if you are new on the desk.</p> <h2>Pages</h2> <!> <h2>Writing a page</h2> <p>Keep the words here and the logic in <code>src/lib</code>. A number that can be computed should be
+computed by a component, not typed into a paragraph.</p>`,1);function I(e,t){let i=_(t,[`children`,`$$slots`,`$$events`,`$$legacy`]);x(e,g(()=>i,()=>k,{children:(e,t)=>{var i=F();O(o(n(i),6),{}),r(4),v(e,i)},$$slots:{default:!0}}))}export{I as component};

diff --git a/build/kb.html b/build/kb.html
@@ -9,16 +9,16 @@
 		<link href="./_app/immutable/chunks/D2uKd6CO.js" rel="modulepreload">
 		<link href="./_app/immutable/chunks/DqobLIMO.js" rel="modulepreload">
 		<link href="./_app/immutable/chunks/D3h3_HI9.js" rel="modulepreload">
-		<link href="./_app/immutable/entry/app.BdO2tR1S.js" rel="modulepreload">
+		<link href="./_app/immutable/entry/app.tLeF7Ukk.js" rel="modulepreload">
 		<link href="./_app/immutable/nodes/0.C1T5FrNR.js" rel="modulepreload">
 		<link href="./_app/immutable/chunks/DK3Fl9T5.js" rel="modulepreload">
-		<link href="./_app/immutable/nodes/2.CRnPyGOK.js" rel="modulepreload">
+		<link href="./_app/immutable/nodes/2.DzoYt4Wm.js" rel="modulepreload">
 		<link href="./_app/immutable/chunks/lbOM6Kvd.js" rel="modulepreload">
 		<link href="./_app/immutable/chunks/BcbpF9Wm.js" rel="modulepreload">
 		<link href="./_app/immutable/chunks/CMROCL73.js" rel="modulepreload">
 		<link href="./_app/immutable/chunks/CVBzP17p.js" rel="modulepreload">
 		<link href="./_app/immutable/chunks/WPahp0Ok.js" rel="modulepreload">
-		<link href="./_app/immutable/chunks/DiKSyrhr.js" rel="modulepreload">
+		<link href="./_app/immutable/chunks/B06xrp83.js" rel="modulepreload">
 		<link href="./_app/immutable/chunks/8jJrl_71.js" rel="modulepreload">
 		<!--e2jw2j--><!----><title>Support knowledge base · support kb</title>
 		<link href="./_app/immutable/assets/runbook.COyw0cbZ.css" rel="stylesheet">
@@ -34,16 +34,16 @@ computed by a component, not typed into a paragraph.</p><!----></main> <footer c
 			
 			<script>
 				{
-					__sveltekit_18xwxmj = {
+					__sveltekit_j6ayf0 = {
 						base: new URL(".", location).pathname.slice(0, -1),
-						version: "1795033471336"
+						version: "1795033544273"
 					};
 
 					const element = document.currentScript.parentElement;
 
 					import("./_app/immutable/entry/start.IGbkpGjp.js").then(async (kit) => {
-						kit.init(__sveltekit_18xwxmj);
-						const app = await import("./_app/immutable/entry/app.BdO2tR1S.js");
+						kit.init(__sveltekit_j6ayf0);
+						const app = await import("./_app/immutable/entry/app.tLeF7Ukk.js");
 						kit.start(app, element, {
 							node_ids: [0, 2],
 							data: [null,null],

diff --git a/build/_app/immutable/entry/app.tLeF7Ukk.js b/build/_app/immutable/entry/app.tLeF7Ukk.js
@@ -1,0 +1,2 @@
+const __vite__mapDeps=(i,m=__vite__mapDeps,d=(m.f||(m.f=["../nodes/0.C1T5FrNR.js","../chunks/DK3Fl9T5.js","../chunks/DqobLIMO.js","../nodes/1.CQ3sYm9m.js","../chunks/D3h3_HI9.js","./payload.DSmR2FwN.js","../nodes/2.DzoYt4Wm.js","../chunks/lbOM6Kvd.js","../assets/runbook.COyw0cbZ.css","../chunks/BcbpF9Wm.js","../chunks/CMROCL73.js","../chunks/CVBzP17p.js","../chunks/WPahp0Ok.js","../assets/Callout.AbLv9dM_.css","../assets/_page.D56XP2ro.css","../chunks/B06xrp83.js","../assets/_page.-ZyW0LFx.css","../chunks/8jJrl_71.js","../assets/_page.DO6Yid7X.css","../assets/2.Bt0MwIZg.css","../nodes/3.DiMgvwiP.js","../nodes/4.DNB3dTQf.js","../nodes/5.ntM49AF6.js","../nodes/6.BF8VDrlo.js"])))=>i.map(i=>d[i]);
+import{t as e}from"../chunks/DclECHGd.js";var t={},n=[()=>e(()=>import(`../nodes/0.C1T5FrNR.js`),__vite__mapDeps([0,1,2]),import.meta.url),()=>e(()=>import(`../nodes/1.CQ3sYm9m.js`),__vite__mapDeps([3,2,4,5]),import.meta.url),()=>e(()=>import(`../nodes/2.DzoYt4Wm.js`),__vite__mapDeps([6,2,7,8,9,1,10,11,12,13,14,15,16,17,18,19]),import.meta.url),()=>e(()=>import(`../nodes/3.DiMgvwiP.js`),__vite__mapDeps([20,9,1,2,7,8]),import.meta.url),()=>e(()=>import(`../nodes/4.DNB3dTQf.js`),__vite__mapDeps([21,10,1,2,7,8,11,12,13,14]),import.meta.url),()=>e(()=>import(`../nodes/5.ntM49AF6.js`),__vite__mapDeps([22,15,1,2,7,8,11,12,13,16]),import.meta.url),()=>e(()=>import(`../nodes/6.BF8VDrlo.js`),__vite__mapDeps([23,17,1,2,7,8,12,13,18]),import.meta.url)],r=[],i={"/kb":[2],"/kb/decisions/0001-dedupe-by-subject":[3],"/kb/incidents/4471-split":[5],"/kb/incidents/4471":[4],"/kb/triage/dedupe":[6]},a={handleError:(({kind:e,error:t})=>{e===`unknown`&&console.error(t)}),reroute:(()=>{}),transport:{}},o=Object.fromEntries(Object.entries(a.transport).map(([e,t])=>[e,t.decode])),s=Object.fromEntries(Object.entries(a.transport).map(([e,t])=>[e,t.encode])),c=!1,l=(e,t)=>o[e](t),u=()=>e(()=>import(`../chunks/Beqi9dRN.js`).then(e=>e.default),[],import.meta.url);export{l as decode,o as decoders,i as dictionary,s as encoders,u as get_error_template,c as hash,a as hooks,t as matchers,n as nodes,r as server_loads};

diff --git a/src/lib/kb/SplitTable.svelte b/src/lib/kb/SplitTable.svelte
@@ -5,8 +5,9 @@
   import { tenantOf } from '#lib/kb/locales';
   import { mistagged, splitTicket, type Problem } from '#lib/kb/split';
 
-  // `issues` maps each problem to the ticket filed for it: { parser: { label, href }, … }.
-  let { ticket, issues }: { ticket: number; issues: Partial<Record<Problem, { label: string; href: string }>> } = $props();
+  // `issues` maps each problem to the ticket filed for it: { parser: { label, href, state }, … }.
+  type Issue = { label: string; href: string; state?: string };
+  let { ticket, issues }: { ticket: number; issues: Partial<Record<Problem, Issue>> } = $props();
 
   const split = $derived(splitTicket(reports as Report[], tenantOf, notes.oneDayMove, ticket));
   const dupes = $derived(split.rows - split.merged.length);
@@ -27,7 +28,7 @@
 
 <table>
   <thead>
-    <tr><th>problem</th><th>reports</th><th>channels</th><th>tenants</th><th>seen</th><th>ticket</th></tr>
+    <tr><th>problem</th><th>reports</th><th>channels</th><th>tenants</th><th>seen</th><th>ticket</th><th>state</th></tr>
   </thead>
   <tbody>
     {#each split.groups as g (g.problem)}
@@ -39,6 +40,7 @@
         <td class="small" title={g.tenants.join(', ')}>{g.tenants.length}</td>
         <td class="small">{g.firstSeen} → {g.lastSeen}</td>
         <td>{#if issue}<a href={issue.href}>{issue.label}</a>{:else}no ticket yet{/if}</td>
+        <td class="small">{issue?.state ?? ''}</td>
       </tr>
     {/each}
   </tbody>

diff --git a/build/kb/decisions/0001-dedupe-by-subject.html b/build/kb/decisions/0001-dedupe-by-subject.html
@@ -9,7 +9,7 @@
 		<link href="../../_app/immutable/chunks/D2uKd6CO.js" rel="modulepreload">
 		<link href="../../_app/immutable/chunks/DqobLIMO.js" rel="modulepreload">
 		<link href="../../_app/immutable/chunks/D3h3_HI9.js" rel="modulepreload">
-		<link href="../../_app/immutable/entry/app.BdO2tR1S.js" rel="modulepreload">
+		<link href="../../_app/immutable/entry/app.tLeF7Ukk.js" rel="modulepreload">
 		<link href="../../_app/immutable/nodes/0.C1T5FrNR.js" rel="modulepreload">
 		<link href="../../_app/immutable/chunks/DK3Fl9T5.js" rel="modulepreload">
 		<link href="../../_app/immutable/nodes/3.DiMgvwiP.js" rel="modulepreload">
@@ -26,16 +26,16 @@ engineering merges them later.</li></ul><!----></main> <footer class="svelte-e2j
 			
 			<script>
 				{
-					__sveltekit_18xwxmj = {
+					__sveltekit_j6ayf0 = {
 						base: new URL("../..", location).pathname.slice(0, -1),
-						version: "1795033471336"
+						version: "1795033544273"
 					};
 
 					const element = document.currentScript.parentElement;
 
 					import("../../_app/immutable/entry/start.IGbkpGjp.js").then(async (kit) => {
-						kit.init(__sveltekit_18xwxmj);
-						const app = await import("../../_app/immutable/entry/app.BdO2tR1S.js");
+						kit.init(__sveltekit_j6ayf0);
+						const app = await import("../../_app/immutable/entry/app.tLeF7Ukk.js");
 						kit.start(app, element, {
 							node_ids: [0, 3],
 							data: [null,null],

diff --git a/build/kb/incidents/4471.html b/build/kb/incidents/4471.html
@@ -9,7 +9,7 @@
 		<link href="../../_app/immutable/chunks/D2uKd6CO.js" rel="modulepreload">
 		<link href="../../_app/immutable/chunks/DqobLIMO.js" rel="modulepreload">
 		<link href="../../_app/immutable/chunks/D3h3_HI9.js" rel="modulepreload">
-		<link href="../../_app/immutable/entry/app.BdO2tR1S.js" rel="modulepreload">
+		<link href="../../_app/immutable/entry/app.tLeF7Ukk.js" rel="modulepreload">
 		<link href="../../_app/immutable/nodes/0.C1T5FrNR.js" rel="modulepreload">
 		<link href="../../_app/immutable/chunks/DK3Fl9T5.js" rel="modulepreload">
 		<link href="../../_app/immutable/nodes/4.DNB3dTQf.js" rel="modulepreload">
@@ -29,16 +29,16 @@ first. The fix is queued.</p> <aside class="note svelte-17bri61"><!---->Known. O
 			
 			<script>
 				{
-					__sveltekit_18xwxmj = {
+					__sveltekit_j6ayf0 = {
 						base: new URL("../..", location).pathname.slice(0, -1),
-						version: "1795033471336"
+						version: "1795033544273"
 					};
 
 					const element = document.currentScript.parentElement;
 
 					import("../../_app/immutable/entry/start.IGbkpGjp.js").then(async (kit) => {
-						kit.init(__sveltekit_18xwxmj);
-						const app = await import("../../_app/immutable/entry/app.BdO2tR1S.js");
+						kit.init(__sveltekit_j6ayf0);
+						const app = await import("../../_app/immutable/entry/app.tLeF7Ukk.js");
 						kit.start(app, element, {
 							node_ids: [0, 4],
 							data: [null,null],

diff --git a/build/kb/triage/dedupe.html b/build/kb/triage/dedupe.html
@@ -9,7 +9,7 @@
 		<link href="../../_app/immutable/chunks/D2uKd6CO.js" rel="modulepreload">
 		<link href="../../_app/immutable/chunks/DqobLIMO.js" rel="modulepreload">
 		<link href="../../_app/immutable/chunks/D3h3_HI9.js" rel="modulepreload">
-		<link href="../../_app/immutable/entry/app.BdO2tR1S.js" rel="modulepreload">
+		<link href="../../_app/immutable/entry/app.tLeF7Ukk.js" rel="modulepreload">
 		<link href="../../_app/immutable/nodes/0.C1T5FrNR.js" rel="modulepreload">
 		<link href="../../_app/immutable/chunks/DK3Fl9T5.js" rel="modulepreload">
 		<link href="../../_app/immutable/nodes/6.BF8VDrlo.js" rel="modulepreload">
@@ -29,16 +29,16 @@ anything else.<!----></aside><!----> <h2>Try it</h2> <div class="try svelte-gq0h
 			
 			<script>
 				{
-					__sveltekit_18xwxmj = {
+					__sveltekit_j6ayf0 = {
 						base: new URL("../..", location).pathname.slice(0, -1),
-						version: "1795033471336"
+						version: "1795033544273"
 					};
 
 					const element = document.currentScript.parentElement;
 
 					import("../../_app/immutable/entry/start.IGbkpGjp.js").then(async (kit) => {
-						kit.init(__sveltekit_18xwxmj);
-						const app = await import("../../_app/immutable/entry/app.BdO2tR1S.js");
+						kit.init(__sveltekit_j6ayf0);
+						const app = await import("../../_app/immutable/entry/app.tLeF7Ukk.js");
 						kit.start(app, element, {
 							node_ids: [0, 6],
 							data: [null,null],

diff --git a/build/_app/immutable/nodes/5.ntM49AF6.js b/build/_app/immutable/nodes/5.ntM49AF6.js
@@ -1,0 +1,1 @@
+export{n as component}from"../chunks/B06xrp83.js";
